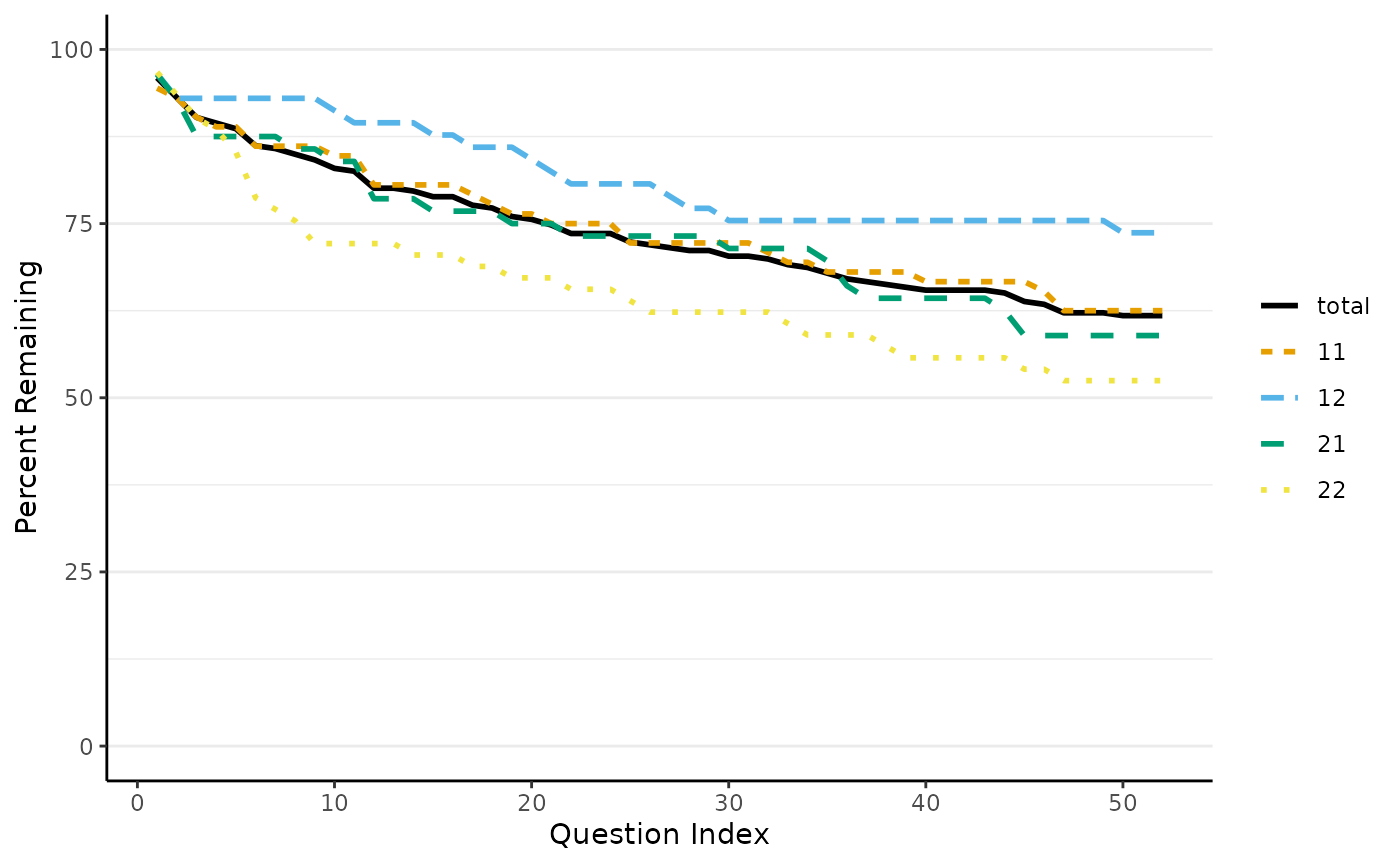
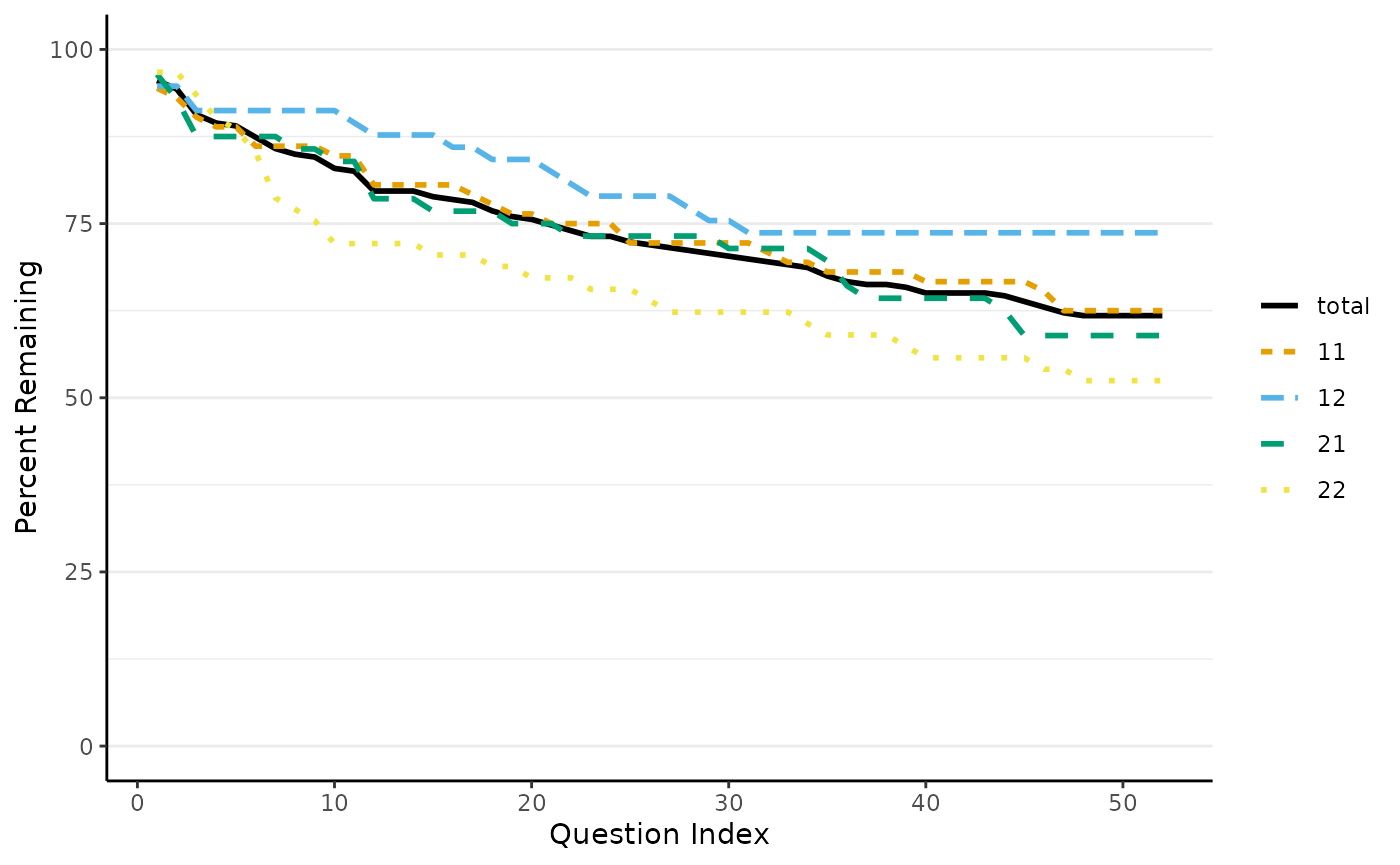
Deploying to gh-pages from @ iscience-kn/dropR@718a0e8d063c68bf59b2df5bbae2e8f4d3e22c47 🚀

diff --git a/articles/tests.html b/articles/tests.html
@@ -104,7 +104,7 @@ and dropout overview table at the selected question.</p>
 <span><span class="co">#&gt;  replicates)</span></span>
 <span><span class="co">#&gt; </span></span>
 <span><span class="co">#&gt; data:  test_table</span></span>
-<span><span class="co">#&gt; X-squared = 1.1979, df = NA, p-value = 0.3338</span></span>
+<span><span class="co">#&gt; X-squared = 1.1979, df = NA, p-value = 0.3388</span></span>
 <span><span class="co">#&gt; </span></span>
 <span><span class="co">#&gt; </span></span>
 <span><span class="co">#&gt; $`Dropout at question 15`</span></span>
@@ -126,48 +126,48 @@ and dropout overview table at the selected question.</p>
 <span><span class="co">#&gt;   x         y      uppr       lwr condition</span></span>
 <span><span class="co">#&gt; 1 0 0.3821138 0.4479241 0.3259726     total</span></span>
 <span><span class="co">#&gt; 2 1 0.3821138 0.4479241 0.3259726     total</span></span>
-<span><span class="co">#&gt; 3 1 0.3414634 0.4061734 0.2870628     total</span></span>
-<span><span class="co">#&gt; 4 2 0.3414634 0.4061734 0.2870628     total</span></span>
-<span><span class="co">#&gt; 5 2 0.3130081 0.3766664 0.2601084     total</span></span>
-<span><span class="co">#&gt; 6 3 0.3130081 0.3766664 0.2601084     total</span></span></code></pre></div>
+<span><span class="co">#&gt; 3 1 0.3373984 0.4019727 0.2831975     total</span></span>
+<span><span class="co">#&gt; 4 2 0.3373984 0.4019727 0.2831975     total</span></span>
+<span><span class="co">#&gt; 5 2 0.3252033 0.3893417 0.2716307     total</span></span>
+<span><span class="co">#&gt; 6 3 0.3252033 0.3893417 0.2716307     total</span></span></code></pre></div>
 <div class="sourceCode" id="cb4"><pre class="downlit sourceCode r">
 <code class="sourceCode R"><span></span>
 <span><span class="fu"><a href="https://rdrr.io/r/utils/head.html" class="external-link">head</a></span><span class="op">(</span><span class="va">kpm</span><span class="op">$</span><span class="va">d</span><span class="op">)</span></span>
-<span><span class="co">#&gt;                                     obs_id vi_1 vi_2 vi_3 vi_4 vi_5 vi_6 vi_7</span></span>
-<span><span class="co">#&gt; 1 7a9f33c4f660d535556925bf706835fb083ead1f    1    1    1    1    1    1    1</span></span>
-<span><span class="co">#&gt; 2 e11f946fd40193aea67e8979bfc69f6b176c9ceb    1   NA    1    1    1    1   NA</span></span>
-<span><span class="co">#&gt; 3 e72a502a213c8be51dbb2c67f3310f08f9be0a67    1   NA    1    1    1    1    1</span></span>
-<span><span class="co">#&gt; 4 f90f5f127796583cd8b4297ade58c0ded4cfc982    1    1    1    1    1    1    1</span></span>
-<span><span class="co">#&gt; 5 20bc72c82581e0c76d3c846b9c1fdc3357febc2f    1   NA    1    1    1    1    1</span></span>
-<span><span class="co">#&gt; 6 76b97a45273d6dcd734896d08e31a0833823e99d    1   NA    1    1    1    1    1</span></span>
-<span><span class="co">#&gt;   vi_8 vi_9 vi_10 vi_11 vi_12 vi_13 vi_14 vi_15 vi_16 vi_17 vi_18 vi_19 vi_20</span></span>
-<span><span class="co">#&gt; 1    1    1     1     1     1     1     1     1     1     1     1     1     1</span></span>
-<span><span class="co">#&gt; 2   NA &lt;NA&gt;    NA    NA    NA    NA    NA    NA    NA    NA    NA    NA    NA</span></span>
-<span><span class="co">#&gt; 3    1    1     1     1     1     1     1     1     1     1     1     1     1</span></span>
-<span><span class="co">#&gt; 4    1    1     1     1     1     1     1     1     1     1     1     1     1</span></span>
-<span><span class="co">#&gt; 5    1    1     1     1     1     1     1     1     1     1     1     1     1</span></span>
-<span><span class="co">#&gt; 6    1    1     1     1     1     1     1     1     1     1     1     1     1</span></span>
-<span><span class="co">#&gt;   vi_21 vi_22 vi_23 vi_24 vi_25 vi_26 vi_27 vi_28 vi_29 vi_30 vi_31 vi_32 vi_33</span></span>
+<span><span class="co">#&gt;   obs_id vi_1 vi_2 vi_3 vi_4 vi_5 vi_6 vi_7 vi_8 vi_9 vi_10 vi_11 vi_12 vi_13</span></span>
+<span><span class="co">#&gt; 1 7a9f33    1    1    1    1    1    1    1    1    1     1     1     1     1</span></span>
+<span><span class="co">#&gt; 2 e11f94    1   NA    1    1    1    1   NA   NA   NA    NA    NA    NA    NA</span></span>
+<span><span class="co">#&gt; 3 e72a50    1   NA    1    1    1    1    1    1    1     1     1     1     1</span></span>
+<span><span class="co">#&gt; 4 f90f5f    1    1    1    1    1    1    1    1    1     1     1     1     1</span></span>
+<span><span class="co">#&gt; 5 20bc72    1   NA    1    1    1    1    1    1    1     1     1     1     1</span></span>
+<span><span class="co">#&gt; 6 76b97a    1   NA    1    1    1    1    1    1    1     1     1     1     1</span></span>
+<span><span class="co">#&gt;   vi_14 vi_15 vi_16 vi_17 vi_18 vi_19 vi_20 vi_21 vi_22 vi_23 vi_24 vi_25 vi_26</span></span>
 <span><span class="co">#&gt; 1     1     1     1     1     1     1     1     1     1     1     1     1     1</span></span>
-<span><span class="co">#&gt; 2    NA    NA    NA  &lt;NA&gt;    NA    NA    NA    NA    NA    NA    NA    NA  &lt;NA&gt;</span></span>
+<span><span class="co">#&gt; 2    NA    NA    NA    NA    NA    NA    NA    NA    NA    NA    NA    NA    NA</span></span>
 <span><span class="co">#&gt; 3     1     1     1     1     1     1     1     1     1     1     1     1     1</span></span>
 <span><span class="co">#&gt; 4     1     1     1     1     1     1     1     1     1     1     1     1     1</span></span>
 <span><span class="co">#&gt; 5     1     1     1     1     1     1     1     1     1     1     1     1     1</span></span>
-<span><span class="co">#&gt; 6     1     1     1     1     1     1     1    NA    NA    NA    NA    NA  &lt;NA&gt;</span></span>
-<span><span class="co">#&gt;   vi_34 vi_35 vi_36 vi_37 vi_38 vi_39 vi_40 vi_41 vi_42 vi_43 vi_44 vi_45 vi_46</span></span>
+<span><span class="co">#&gt; 6     1     1     1     1     1     1     1     1     1     1     1     1     1</span></span>
+<span><span class="co">#&gt;   vi_27 vi_28 vi_29 vi_30 vi_31 vi_32 vi_33 vi_34 vi_35 vi_36 vi_37 vi_38 vi_39</span></span>
 <span><span class="co">#&gt; 1     1     1     1     1     1     1     1     1     1     1     1     1     1</span></span>
-<span><span class="co">#&gt; 2    NA    NA    NA    NA    NA    NA    NA    NA    NA    NA    NA  &lt;NA&gt;    NA</span></span>
+<span><span class="co">#&gt; 2    NA    NA    NA    NA    NA    NA    NA    NA    NA    NA    NA    NA    NA</span></span>
 <span><span class="co">#&gt; 3     1     1     1     1     1     1     1     1     1     1     1     1     1</span></span>
 <span><span class="co">#&gt; 4     1     1     1     1     1     1     1     1     1     1     1     1     1</span></span>
 <span><span class="co">#&gt; 5     1     1     1     1     1     1     1     1     1     1     1     1     1</span></span>
-<span><span class="co">#&gt; 6    NA    NA    NA    NA    NA    NA    NA    NA    NA    NA    NA  &lt;NA&gt;    NA</span></span>
-<span><span class="co">#&gt;   vi_47 vi_48 vi_49 vi_50 vi_51 vi_52 experimental_condition do_idx surv</span></span>
-<span><span class="co">#&gt; 1     1     1     1     1     1     1                     11      0    0</span></span>
-<span><span class="co">#&gt; 2    NA    NA    NA    NA    NA  &lt;NA&gt;                     22      5    5</span></span>
-<span><span class="co">#&gt; 3     1     1     1     1     1     1                     22      0    0</span></span>
-<span><span class="co">#&gt; 4     1     1     1     1     1     1                     11      0    0</span></span>
-<span><span class="co">#&gt; 5     1     1     1     1     1     1                     12      0    0</span></span>
-<span><span class="co">#&gt; 6    NA    NA    NA    NA    NA  &lt;NA&gt;                     22     26   26</span></span></code></pre></div>
+<span><span class="co">#&gt; 6     1    NA    NA    NA    NA    NA    NA    NA    NA    NA    NA    NA    NA</span></span>
+<span><span class="co">#&gt;   vi_40 vi_41 vi_42 vi_43 vi_44 vi_45 vi_46 vi_47 vi_48 vi_49 vi_50 vi_51 vi_52</span></span>
+<span><span class="co">#&gt; 1     1     1     1     1     1     1     1     1     1     1     1     1     1</span></span>
+<span><span class="co">#&gt; 2    NA    NA    NA    NA    NA    NA    NA    NA    NA    NA    NA    NA    NA</span></span>
+<span><span class="co">#&gt; 3     1     1     1     1     1     1     1     1     1     1     1     1     1</span></span>
+<span><span class="co">#&gt; 4     1     1     1     1     1     1     1     1     1     1     1     1     1</span></span>
+<span><span class="co">#&gt; 5     1     1     1     1     1     1     1     1     1     1     1     1     1</span></span>
+<span><span class="co">#&gt; 6    NA    NA    NA    NA    NA    NA    NA    NA    NA    NA    NA    NA    NA</span></span>
+<span><span class="co">#&gt;   experimental_condition do_idx surv</span></span>
+<span><span class="co">#&gt; 1                     11      0    0</span></span>
+<span><span class="co">#&gt; 2                     22      6    6</span></span>
+<span><span class="co">#&gt; 3                     22      0    0</span></span>
+<span><span class="co">#&gt; 4                     11      0    0</span></span>
+<span><span class="co">#&gt; 5                     12      0    0</span></span>
+<span><span class="co">#&gt; 6                     22     27   27</span></span></code></pre></div>
 <div class="sourceCode" id="cb5"><pre class="downlit sourceCode r">
 <code class="sourceCode R"><span></span>
 <span><span class="va">kpm</span><span class="op">$</span><span class="va">model_fit</span></span>

diff --git a/articles/interactive.html b/articles/interactive.html
@@ -100,20 +100,13 @@ questions are easily identified by their prefix <code>vi_</code></p>
 <span><span class="co"># add numeric drop out position to original dataset</span></span>
 <span><span class="va">dropRdemo</span> <span class="op">&lt;-</span> <span class="fu"><a href="../reference/add_dropout_idx.html">add_dropout_idx</a></span><span class="op">(</span><span class="va">dropRdemo</span>, q_pos <span class="op">=</span> <span class="va">qs</span><span class="op">)</span></span>
 <span><span class="fu"><a href="https://rdrr.io/r/utils/head.html" class="external-link">head</a></span><span class="op">(</span><span class="va">dropRdemo</span><span class="op">[</span>,<span class="fu"><a href="https://rdrr.io/r/base/c.html" class="external-link">c</a></span><span class="op">(</span><span class="fl">1</span><span class="op">:</span><span class="fl">3</span>,<span class="fl">53</span>,<span class="fl">54</span><span class="op">)</span><span class="op">]</span><span class="op">)</span></span>
-<span><span class="co">#&gt;                                     obs_id vi_1 vi_2 vi_52</span></span>
-<span><span class="co">#&gt; 1 7a9f33c4f660d535556925bf706835fb083ead1f    1    1     1</span></span>
-<span><span class="co">#&gt; 2 e11f946fd40193aea67e8979bfc69f6b176c9ceb    1   NA  &lt;NA&gt;</span></span>
-<span><span class="co">#&gt; 3 e72a502a213c8be51dbb2c67f3310f08f9be0a67    1   NA     1</span></span>
-<span><span class="co">#&gt; 4 f90f5f127796583cd8b4297ade58c0ded4cfc982    1    1     1</span></span>
-<span><span class="co">#&gt; 5 20bc72c82581e0c76d3c846b9c1fdc3357febc2f    1   NA     1</span></span>
-<span><span class="co">#&gt; 6 76b97a45273d6dcd734896d08e31a0833823e99d    1   NA  &lt;NA&gt;</span></span>
-<span><span class="co">#&gt;   experimental_condition</span></span>
-<span><span class="co">#&gt; 1                     11</span></span>
-<span><span class="co">#&gt; 2                     22</span></span>
-<span><span class="co">#&gt; 3                     22</span></span>
-<span><span class="co">#&gt; 4                     11</span></span>
-<span><span class="co">#&gt; 5                     12</span></span>
-<span><span class="co">#&gt; 6                     22</span></span></code></pre></div>
+<span><span class="co">#&gt;   obs_id vi_1 vi_2 vi_52 experimental_condition</span></span>
+<span><span class="co">#&gt; 1 7a9f33    1    1     1                     11</span></span>
+<span><span class="co">#&gt; 2 e11f94    1   NA    NA                     22</span></span>
+<span><span class="co">#&gt; 3 e72a50    1   NA     1                     22</span></span>
+<span><span class="co">#&gt; 4 f90f5f    1    1     1                     11</span></span>
+<span><span class="co">#&gt; 5 20bc72    1   NA     1                     12</span></span>
+<span><span class="co">#&gt; 6 76b97a    1   NA    NA                     22</span></span></code></pre></div>
 <p>The <code>experimental_condition</code> column indicates belonging to
 a sub sample group each of which was treated differently. For example,
 groups receive a different sequence of questions or different wording.
@@ -138,26 +131,26 @@ item.</p>
 <tr class="odd">
 <td align="right">1</td>
 <td align="left">total</td>
-<td align="right">10</td>
+<td align="right">11</td>
 <td align="right">246</td>
-<td align="right">236</td>
-<td align="right">0.9593496</td>
+<td align="right">235</td>
+<td align="right">0.9552846</td>
 </tr>
 <tr class="even">
 <td align="right">2</td>
 <td align="left">total</td>
-<td align="right">17</td>
+<td align="right">14</td>
 <td align="right">246</td>
-<td align="right">229</td>
-<td align="right">0.9308943</td>
+<td align="right">232</td>
+<td align="right">0.9430894</td>
 </tr>
 <tr class="odd">
 <td align="right">3</td>
 <td align="left">total</td>
-<td align="right">24</td>
+<td align="right">23</td>
 <td align="right">246</td>
-<td align="right">222</td>
-<td align="right">0.9024390</td>
+<td align="right">223</td>
+<td align="right">0.9065041</td>
 </tr>
 <tr class="even">
 <td align="right">4</td>
@@ -170,23 +163,23 @@ item.</p>
 <tr class="odd">
 <td align="right">5</td>
 <td align="left">total</td>
-<td align="right">28</td>
+<td align="right">27</td>
 <td align="right">246</td>
-<td align="right">218</td>
-<td align="right">0.8861789</td>
+<td align="right">219</td>
+<td align="right">0.8902439</td>
 </tr>
 <tr class="even">
 <td align="right">6</td>
 <td align="left">total</td>
-<td align="right">34</td>
+<td align="right">31</td>
 <td align="right">246</td>
-<td align="right">212</td>
-<td align="right">0.8617886</td>
+<td align="right">215</td>
+<td align="right">0.8739837</td>
 </tr>
 </tbody>
 </table>
-<p>Out of 246 participants in the demo sample, 236 participants remain
-in the survey, accounting for 95.93 percent of the sample. The
+<p>Out of 246 participants in the demo sample, 235 participants remain
+in the survey, accounting for 95.53 percent of the sample. The
 <code>cs</code> column shows the cummulative dropout count.</p>
 </div>
 <div class="section level3">
